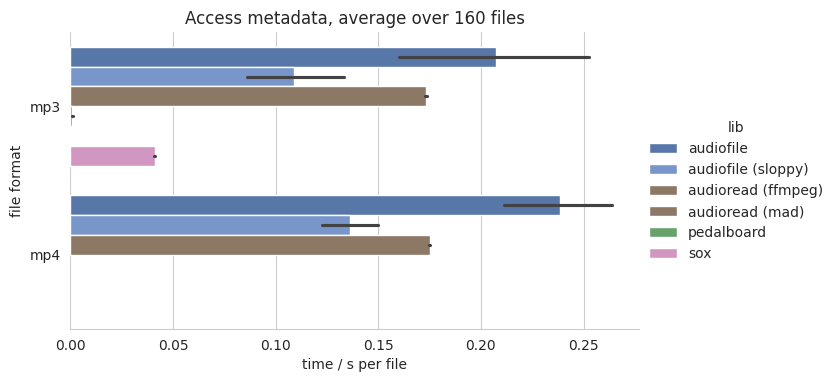
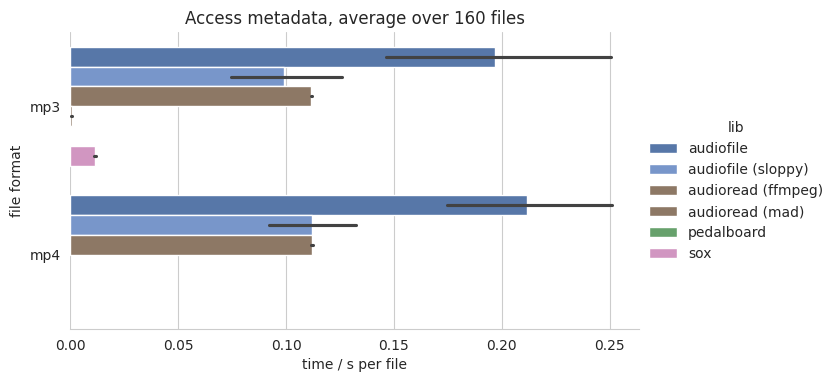
DOC: update benchmark results

diff --git a/docs/benchmark.rst b/docs/benchmark.rst
@@ -31,11 +31,11 @@ Python packages
 The following Python packages are benchmarked against each other:
 
 * audioread_ 3.0.1
-* :mod:`audiofile` 1.3.0
+* :mod:`audiofile` 1.3.2
 * librosa_ 0.10.1
-* pedalboard_ 0.8.6
+* pedalboard_ 0.8.7
 * scipy_ 1.11.4
-* soundfile_ 0.21.1
+* soundfile_ 0.12.1
 * sox_ 1.4.1
 
 scipy_ and librosa_ are only tested for reading files,
@@ -46,6 +46,8 @@ mad_ works only for MP3 files,
 and is only benchmarked for those.
 As gstreamer_ is slow and complicated to install
 it is not included in the benchmarks.
+linsndfile_ 1.0.31 was used
+as underlying library of soundfile_.
 
 Reading files
 ^^^^^^^^^^^^^
@@ -70,11 +72,11 @@ Running the benchmark
 
 The benchmark was executed on the following machine:
 
-* CPU: Intel(R) Core(TM) i7-8750H CPU @ 2.20GHz x 12
-* RAM: 15.37 GB
-* Hard drive: Samsung SSD 860
-* Linux: Ubuntu 18.04.6
-* Python: 3.10.11
+* CPU: 13th Gen Intel Core i7-1355U, 10-core (2-mt/8-st)
+* RAM: 15.29 GiB
+* Hard drive: KIOXIA
+* Linux: Ubuntu 22.04.3
+* Python: 3.10.12
 
 To rerun the benchmark yourself,
 clone the repository
